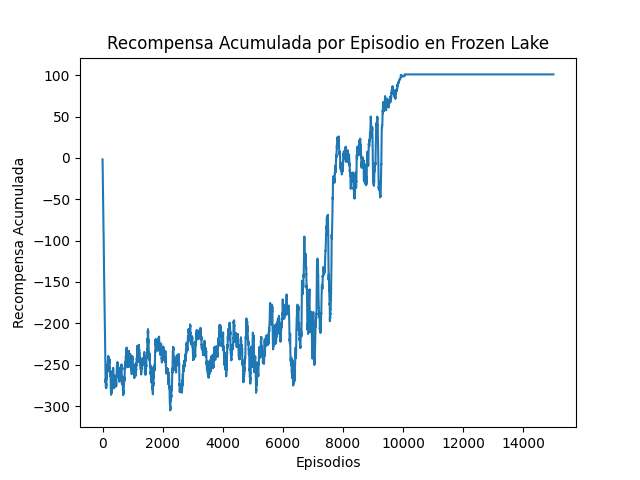
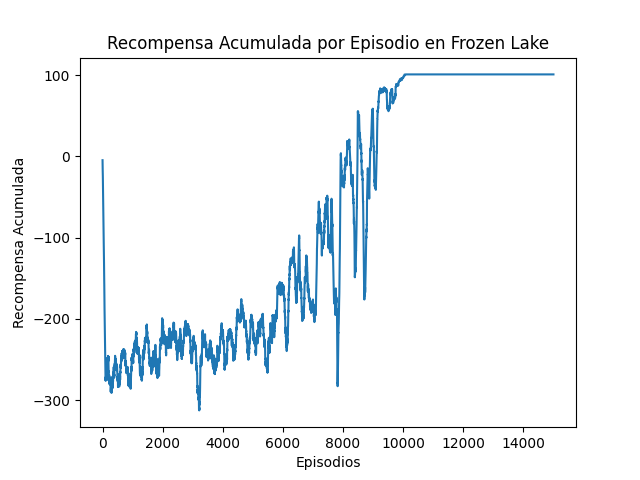
Update UCB

diff --git a/Laboratorios/Laboratorio7/Métodos/ucb.py b/Laboratorios/Laboratorio7/Métodos/ucb.py
@@ -14,24 +14,25 @@ gym.register(
 )
 
 def run(episodes, is_training=True, render=False):
-    # 'FrozenLake-enhanced' es el id especificado anteriormente
     env = gym.make('FrozenLake-enhanced', desc=None, map_name="4x4", is_slippery=False, render_mode='human' if render else None)
     
     if is_training:
         q = np.zeros((env.observation_space.n, env.action_space.n))  # Inicializamos la tabla Q
         acciones = np.ones((env.observation_space.n, env.action_space.n))  # Contador de acciones tomadas inicializado en 1 para evitar división por cero
     else:
-        with open('Laboratorios/Laboratorio7/Métodos/QTable/UCB_Incremental/frozen_lake8x8.pkl', 'rb') as f:
+        with open('Laboratorios/Laboratorio7/Métodos/QTable/UCB/frozen_lake4x4.pkl', 'rb') as f:
             q = pickle.load(f)
             acciones = np.ones((env.observation_space.n, env.action_space.n))
         
-    c = 1.0  # Constante para UCB
+    c = 1.0  # Constante inicial para UCB
+    c_min = 0  # Valor mínimo de c
+    c_decay = 0.001
     alpha = 0.1  # Tasa de aprendizaje
 
     rewards_per_episode = np.zeros(episodes)
     
     previous_states = []
-    max_previous_states = 1
+    max_previous_states = 4
     penalty = -0.2  # Penalización por movimiento repetitivo
     
     for i in range(episodes):
@@ -41,7 +42,7 @@ def run(episodes, is_training=True, render=False):
 
         while not terminated and not truncated:
             if is_training:
-                # Selección de acción usando UCB
+                # Selección de acción usando UCB con c variable
                 total_actions = np.sum(acciones[state, :])
                 ucb_values = q[state, :] + c * np.sqrt(np.log(total_actions + 1) / acciones[state, :])
                 action = np.argmax(ucb_values)
@@ -75,6 +76,10 @@ def run(episodes, is_training=True, render=False):
 
             state = new_state
             rewards_per_episode[i] += reward
+
+        # Disminuir c
+        if is_training:
+            c = max(c - c_decay, c_min)
     
     env.close()
     
@@ -85,13 +90,13 @@ def run(episodes, is_training=True, render=False):
     plt.xlabel('Episodios')
     plt.ylabel('Recompensa Acumulada')
     plt.title('Recompensa Acumulada por Episodio en Frozen Lake')
-    plt.savefig('Laboratorios/Laboratorio7/Métodos/Gráficos/UCB_Incremental/frozen_lake8x8.png')
+    plt.savefig('Laboratorios/Laboratorio7/Métodos/Gráficos/UCB/frozen_lake4x4.png')
     plt.show()
 
     if is_training:
-        with open("Laboratorios/Laboratorio7/Métodos/QTable/UCB_Incremental/frozen_lake8x8.pkl", "wb") as f:
+        with open("Laboratorios/Laboratorio7/Métodos/QTable/UCB/frozen_lake4x4.pkl", "wb") as f:
             pickle.dump(q, f)
 
 if __name__ == '__main__':
-    run(15000, is_training=True, render=True)
-    #run(1000, is_training=False, render=True)
+    #run(15000, is_training=True, render=True)
+    run(1000, is_training=False, render=True)

diff --git a/Laboratorios/Laboratorio7/Métodos/incremental.py b/Laboratorios/Laboratorio7/Métodos/incremental.py
@@ -84,12 +84,12 @@ def run(episodes, is_training=True, render=False):
     plt.xlabel('Episodios')
     plt.ylabel('Recompensa Acumulada')
     plt.title('Recompensa Acumulada por Episodio en Frozen Lake')
-    plt.savefig('Laboratorios/Laboratorio7/Métodos/Gráficos/Incremental/frozen_lake8x8_test.png')
+    plt.savefig('Laboratorios/Laboratorio7/Métodos/Gráficos/Incremental/frozen_lake8x8_test9.png')
 
     if is_training:
         with open("Laboratorios/Laboratorio7/Métodos/QTable/Incremental/frozen_lake8x8.pkl", "wb") as f:
             pickle.dump(q, f)
 
 if __name__ == '__main__':
-    run(1000, is_training=True, render=True)
-    #run(1000, is_training=False, render=True)
+    #run(15000, is_training=True, render=True)
+    run(1000, is_training=False, render=True)
